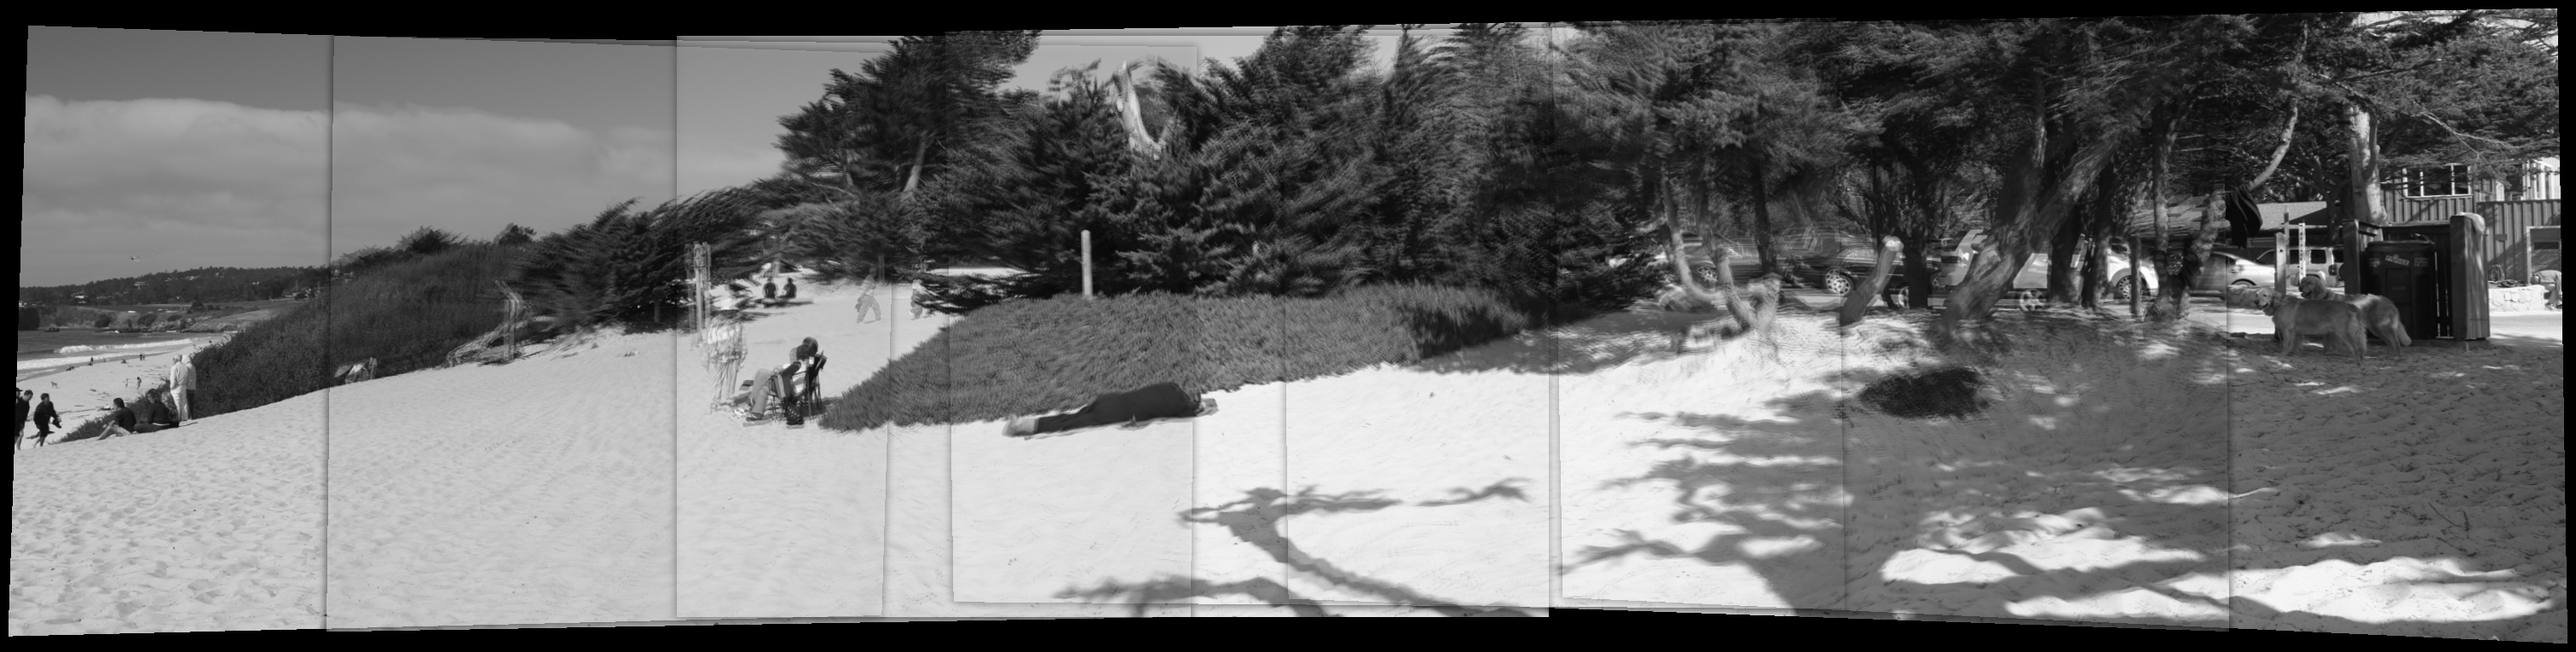
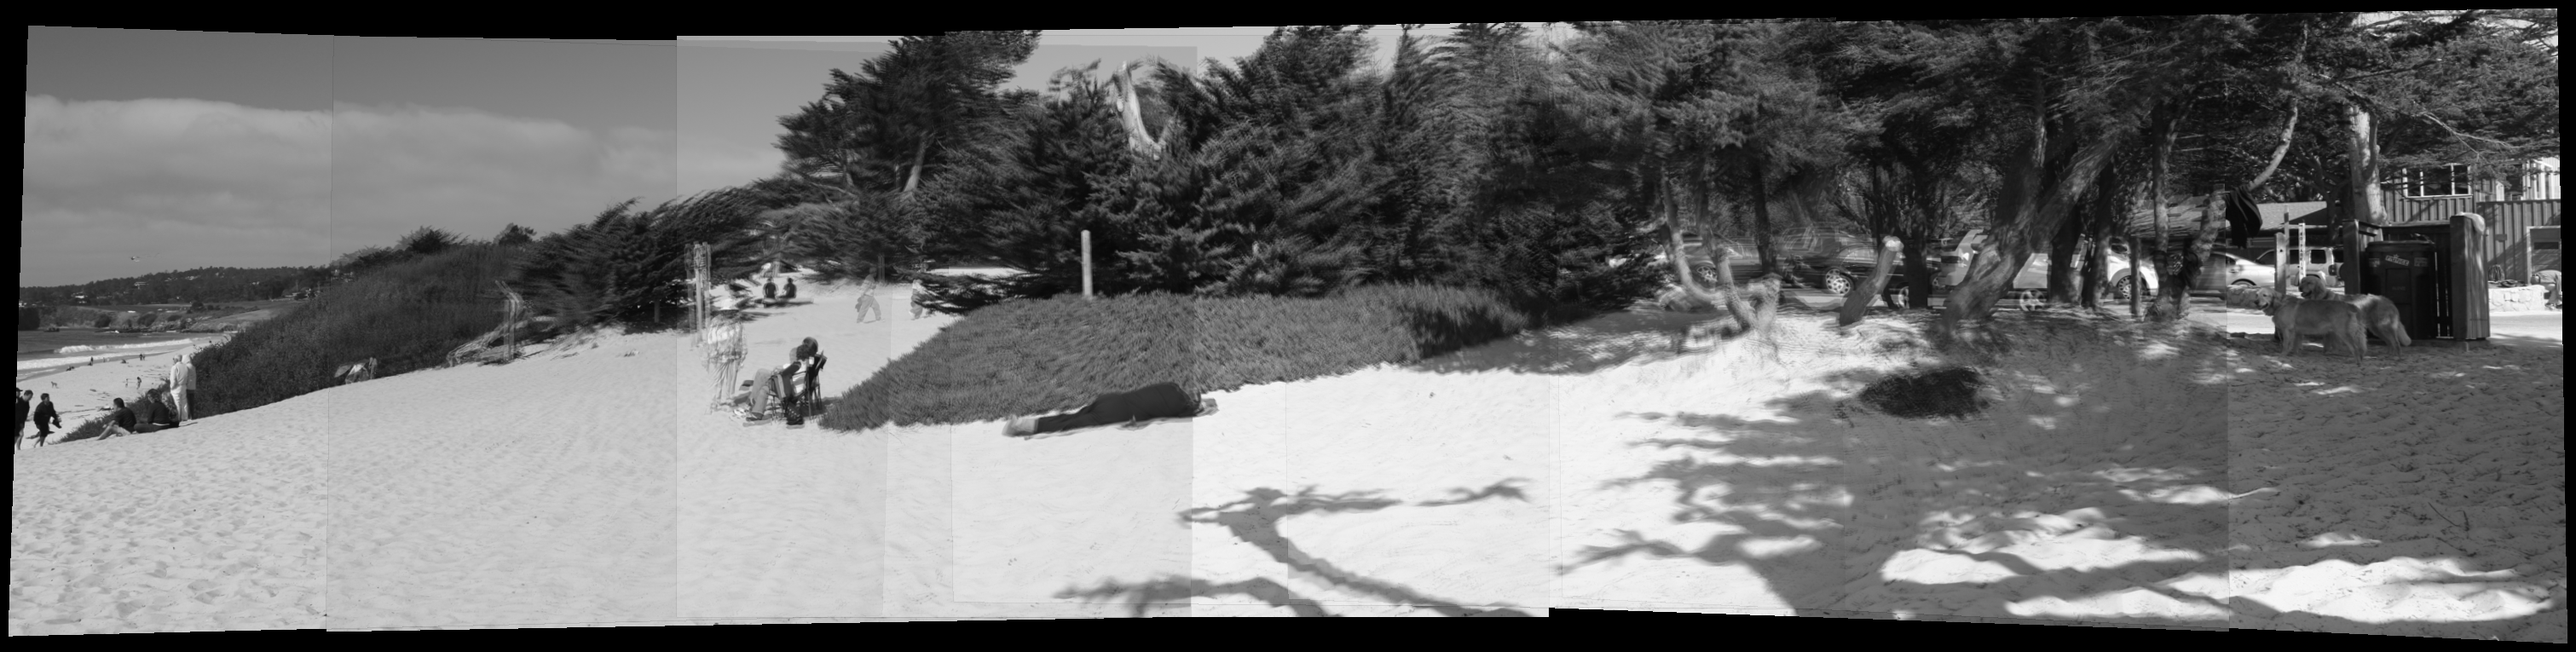
Changed the Gaussian filter size and ran the demo

diff --git a/main.m b/main.m
@@ -26,26 +26,13 @@ clear; close all; clc;
 clcwaitbarz = findall(0,'type','figure','tag','TMWWaitbar');
 delete(clcwaitbarz);
 warning('off','all');
-
-%--------------------------------------------------------------------------
-% Parallel pools
-%--------------------------------------------------------------------------
-if(isempty(gcp('nocreate')))
-    if strcmp(input.poolType,'numcores')
-        parpool(input.numCores);
-    else
-        parpool('Threads')
-    end
-end
-
 Start = tic;
-warning('off','all')
 
 %% Get inputs
 %--------------------------------------------------------------------------
 % Inputs file
 %--------------------------------------------------------------------------
-blendFeather = 0;
+blendFeather = 1;
 imagesFolder = 'images';
 
 %--------------------------------------------------------------------------
@@ -60,7 +47,7 @@ load cameras.mat
 customrender = tic;
 panorama = stitchImages_tightROI(images, cameras, blendFeather);
 fprintf('Custom render: %f seconds\n', toc(customrender));
-% imwrite(panorama, 'pano_no_blending.png')
+imwrite(panorama, 'assets/pano_feathering.png')
 
 %% Show panorama
 figure; 

diff --git a/stitchImages_tightROI.m b/stitchImages_tightROI.m
@@ -103,7 +103,7 @@ function stitched = stitchImages_tightROI(images, cameras, blendFeather, ref_idx
             stitched = uint8(accumulated ./ weight_sum);
         case 1
             % Blend images directly with feathering
-            kernel_size = 31;
+            kernel_size = 3;
             kernel = fspecial('gaussian', [kernel_size kernel_size], kernel_size/6);
             
             for i = 1:length(masks)
